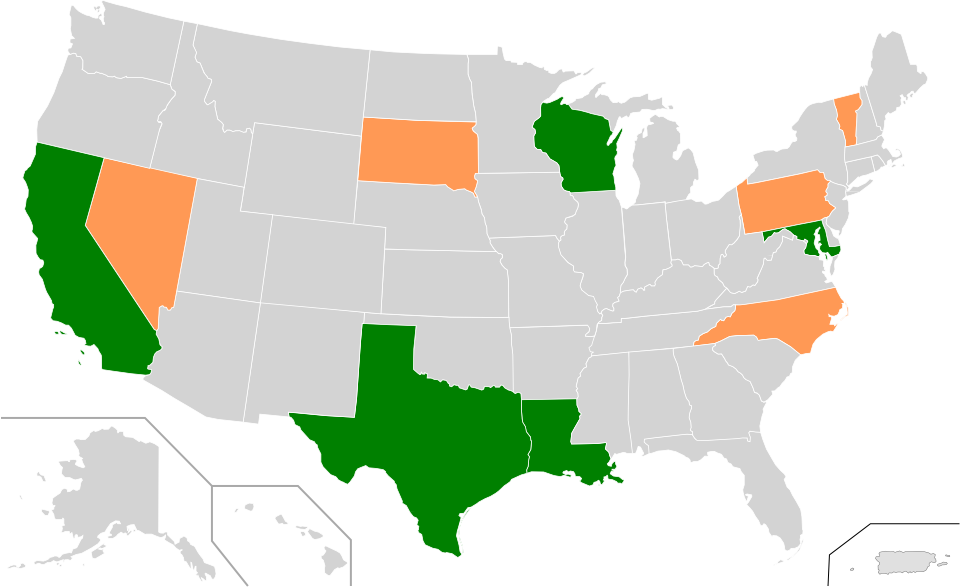
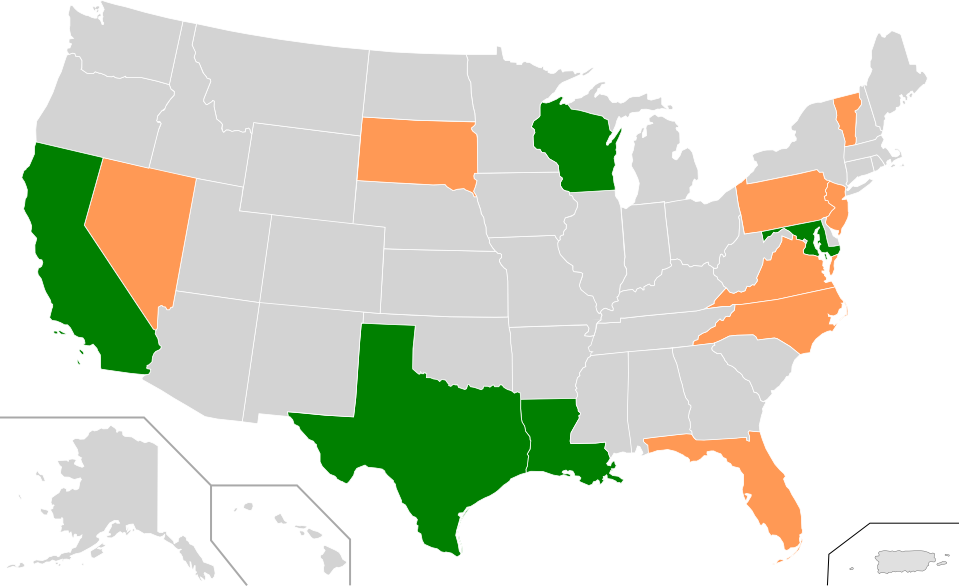
added NJ, VA, and FL to experimental

diff --git a/docs/api.status.rst b/docs/api.status.rst
@@ -46,6 +46,9 @@ Current Experimental States
 * Pennsylvania
 * South Dakota
 * Vermont
+* Virginia
+* New Jersey
+* Florida
 
 Unsupported States (grey)
 -------------------------
